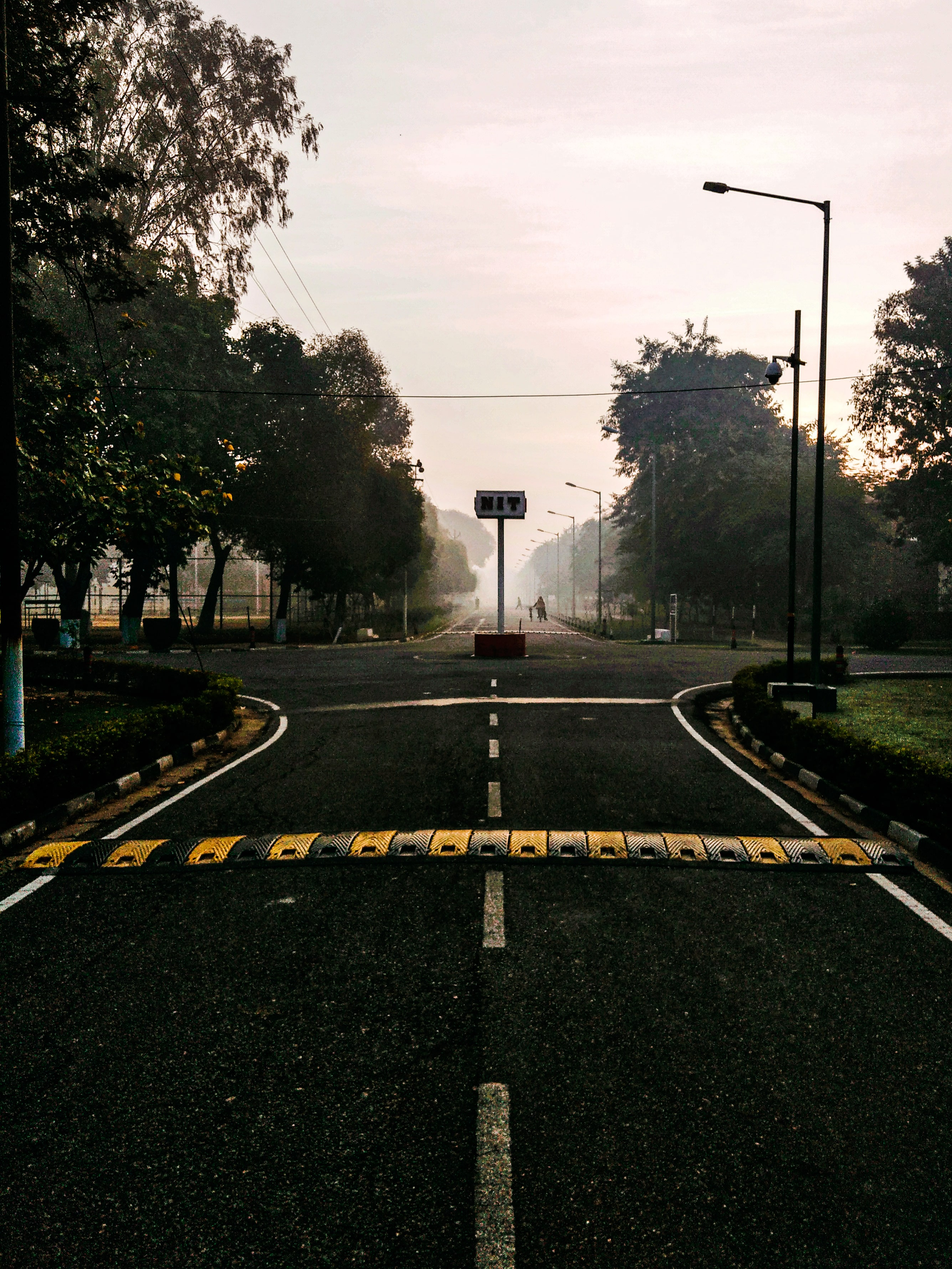
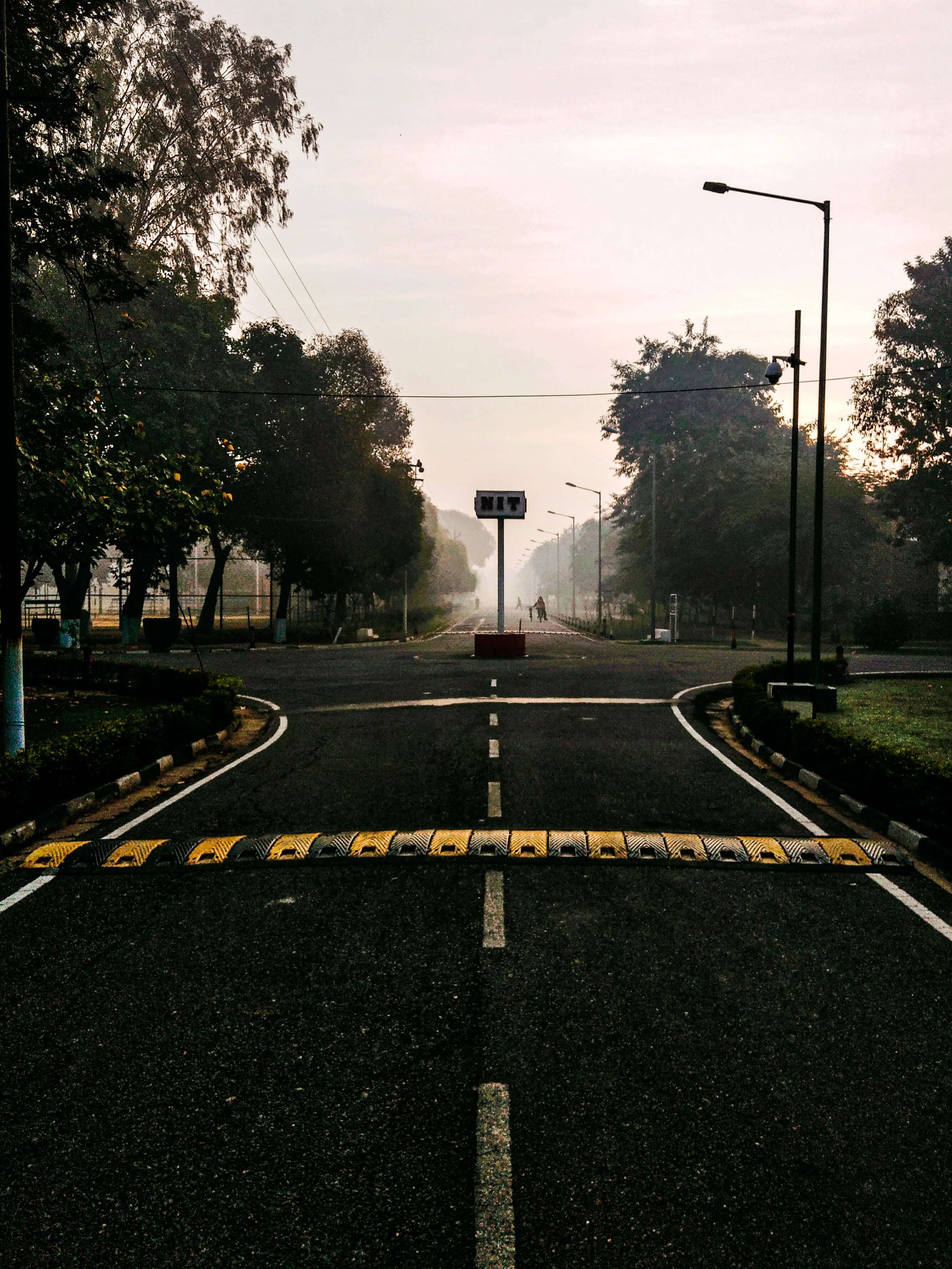
.

diff --git a/index.html b/index.html
@@ -25,20 +25,20 @@
        </div>
 
        <div class="myPhotos1">
-           <img src="Photo Gallery/1.jpg">
-           <img src="Photo Gallery/2.jpg">
-           <img src="Photo Gallery/3.jpg">
-           <img src="Photo Gallery/4.jpg">
-           <img src="Photo Gallery/5.jpg">
-           <img src="Photo Gallery/6.jpg">
-           <img src="Photo Gallery/7.jpg">
+           <img src="https://res.cloudinary.com/datowwrax/image/upload/v1591157738/1_lgidhv.jpg">
+           <img src="https://res.cloudinary.com/datowwrax/image/upload/v1591157745/2_xkmalv.jpg">
+           <img src="https://res.cloudinary.com/datowwrax/image/upload/v1591157766/3_e6qvyt.jpg">
+           <img src="https://res.cloudinary.com/datowwrax/image/upload/v1591157788/4_shpixb.jpg">
+           <img src="https://res.cloudinary.com/datowwrax/image/upload/v1591157757/5_bdez4k.jpg">
+           <img src="https://res.cloudinary.com/datowwrax/image/upload/v1591157791/6_gxxdo3.jpg">
+           <img src="https://res.cloudinary.com/datowwrax/image/upload/v1591157778/7_gxsuki.jpg">
        </div>
 
     <div class="myPhotos2">
-        <img src="Photo Gallery/8.jpg">
-        <img src="Photo Gallery/9.jpg">
-        <img src="Photo Gallery/10.jpg">
-        <img src="Photo Gallery/11.jpg">
+        <img src="https://res.cloudinary.com/datowwrax/image/upload/v1591157783/8_bhkdwf.jpg">
+        <img src="https://res.cloudinary.com/datowwrax/image/upload/v1591157777/9_qbqsbc.jpg">
+        <img src="https://res.cloudinary.com/datowwrax/image/upload/v1591157778/10_q4zi3o.jpg">
+        <img src="https://res.cloudinary.com/datowwrax/image/upload/v1591157790/11_sny3h8.jpg">
     </div>
 
     <div class="getBack">
